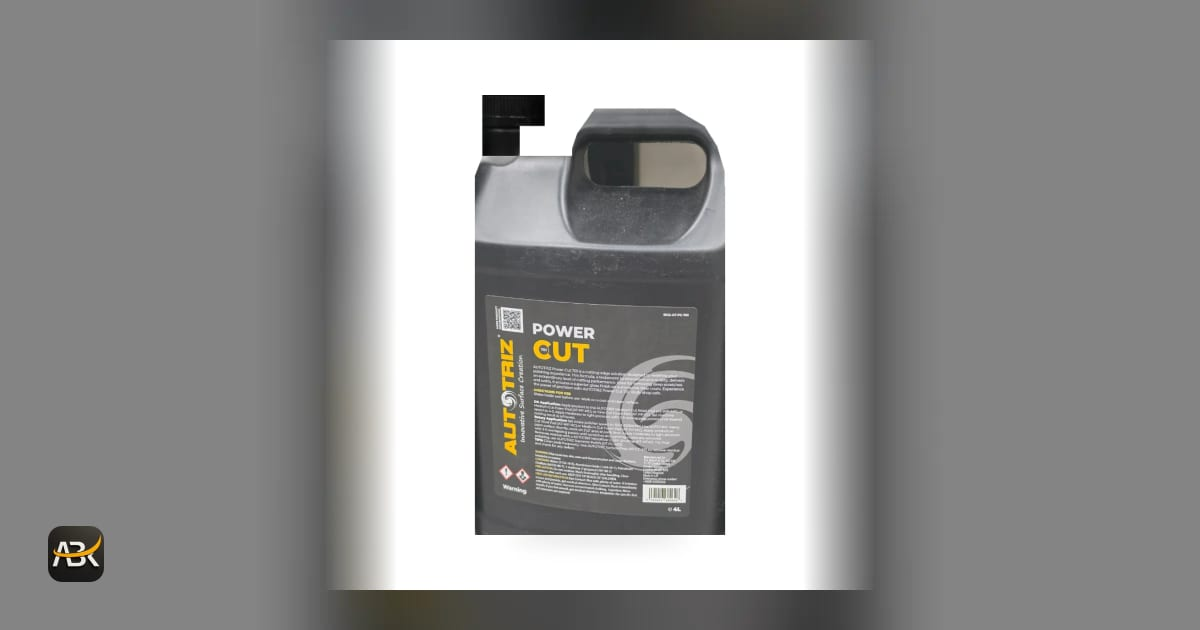
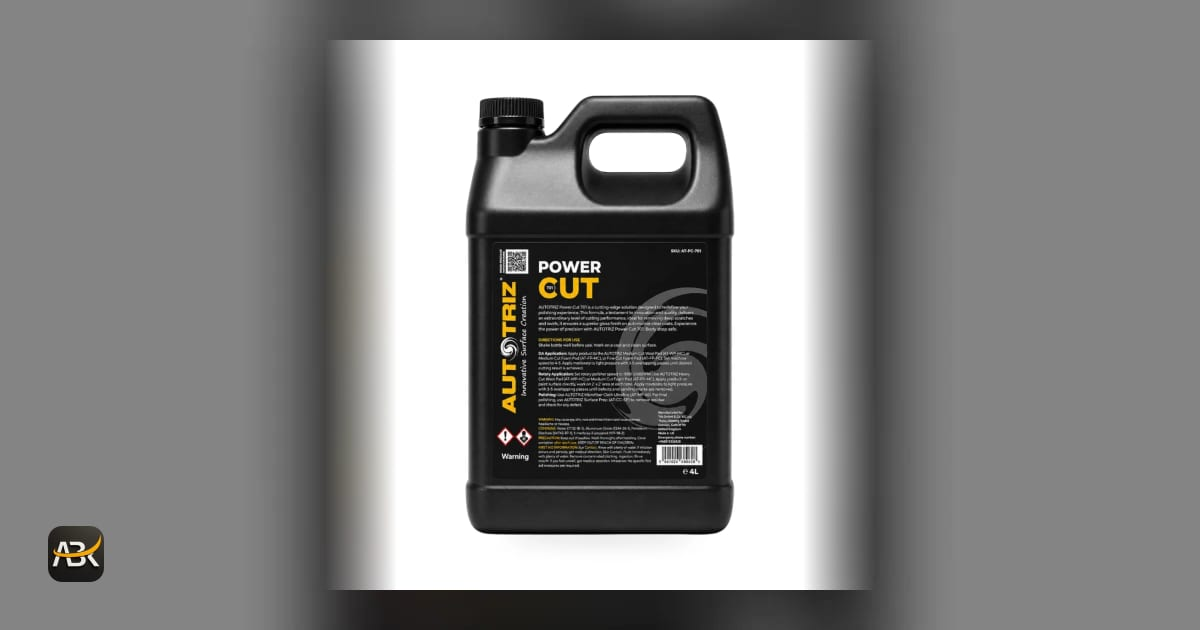
feat(products): update Autotriz Power Cut 701 with 2-in-1 compound details and studio packshot

diff --git a/src/data/products.ts b/src/data/products.ts
@@ -556,21 +556,24 @@ export const PRODUCTS: Product[] = [
     brand: "Autotriz",
     category: "polish",
     name: {
-      en: "Autotriz Power Cut 701",
-      ar: "Autotriz Power Cut 701 — مركّب قطع قوي",
+      en: "Autotriz Power Cut 701 — 2-in-1 Polishing Compound (4L)",
+      ar: "Autotriz Power Cut 701 — مركّب تلميع ٢ في ١ (٤ لتر)",
     },
     shortDesc: {
-      en: "Cutting-edge polishing compound — high cut performance with gloss finish. Body-shop safe.",
-      ar: "مركّب تلميع متطور — قطع عالي مع لمعان. آمن لورش السمكرة.",
+      en: "2-in-1 polishing compound — heavy cutting performance with a brilliant high-gloss finish in 4L bulk jug. Made in Germany.",
+      ar: "مركّب تلميع ٢ في ١ — أداء قطع قوي مع لمعان فائق بعبوة ٤ لتر. صُنع في ألمانيا.",
     },
     longDesc: {
-      en: "Autotriz Power Cut 701 is a cutting-edge solution designed to redefine your polishing experience. Formula delivers an extraordinary level of cutting performance while ensuring a superior gloss finish on automotive clear coats. Ideal for removing deep scratches and swirls. Body-shop safe. 4 L jug.",
-      ar: "تركيبة متقدمة تجمع بين قدرة قطع فائقة ولمعان استثنائي على الطلاءات الشفافة. مثالي لإزالة الخدوش العميقة والهالات. آمن لورش السمكرة. عبوة 4 لتر.",
+      en: "AUTOTRIZ Power Cut 701 is a premium 2-in-1 polishing compound engineered to deliver an extraordinary level of cutting performance while ensuring a superior gloss finish on automotive clear coats. Ideal for removing deep scratches, P1500–P2000 sanding marks, and heavy swirls in one efficient process. Body-shop safe, silicone-free formula. Works seamlessly with rotary and dual-action polishers.",
+      ar: "AUTOTRIZ Power Cut 701 مركّب تلميع متطور ٢ في ١ مصمم لتقديم أداء قطع استثنائي مع ضمان لمعان فائق على الطلاء الشفاف للسيارات. مثالي لإزالة الخدوش العميقة وعلامات السنفرة والدوامات في خطوة فعالة. تركيبة آمنة لورش السمكرة وخالية من السيليكون. متوافق مع الملمعات الدوارة ومزدوجة الحركة.",
     },
     images: ["/products/autotriz/autotriz-power-cut-701-4l.webp"],
     specs: [
       { label: { en: "SKU", ar: "رقم المنتج" }, value: { en: "AT-PC-701", ar: "AT-PC-701" } },
       { label: { en: "Size", ar: "الحجم" }, value: { en: "4 L", ar: "٤ لتر" } },
+      { label: { en: "Type", ar: "النوع" }, value: { en: "2-in-1 Cut & Polish Compound", ar: "مركّب ٢ في ١ قطع وتلميع" } },
+      { label: { en: "Compatibility", ar: "التوافق" }, value: { en: "Rotary · Dual Action", ar: "روتاري · دوال أكشن" } },
+      { label: { en: "Origin", ar: "بلد المنشأ" }, value: { en: "Made in Germany", ar: "صُنع في ألمانيا" } },
     ],
     audience: "both",
   },
